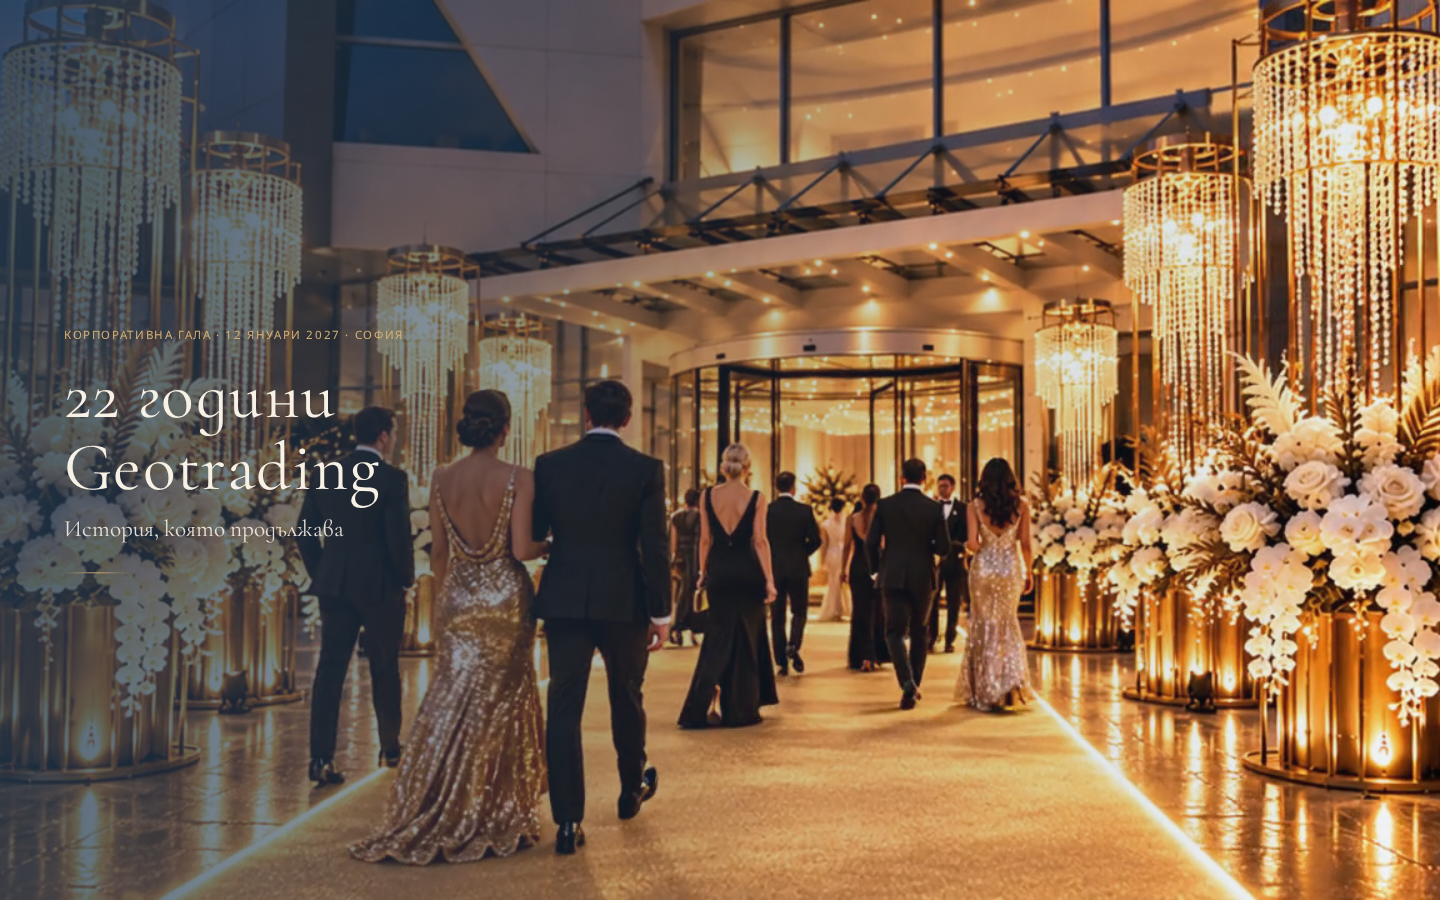
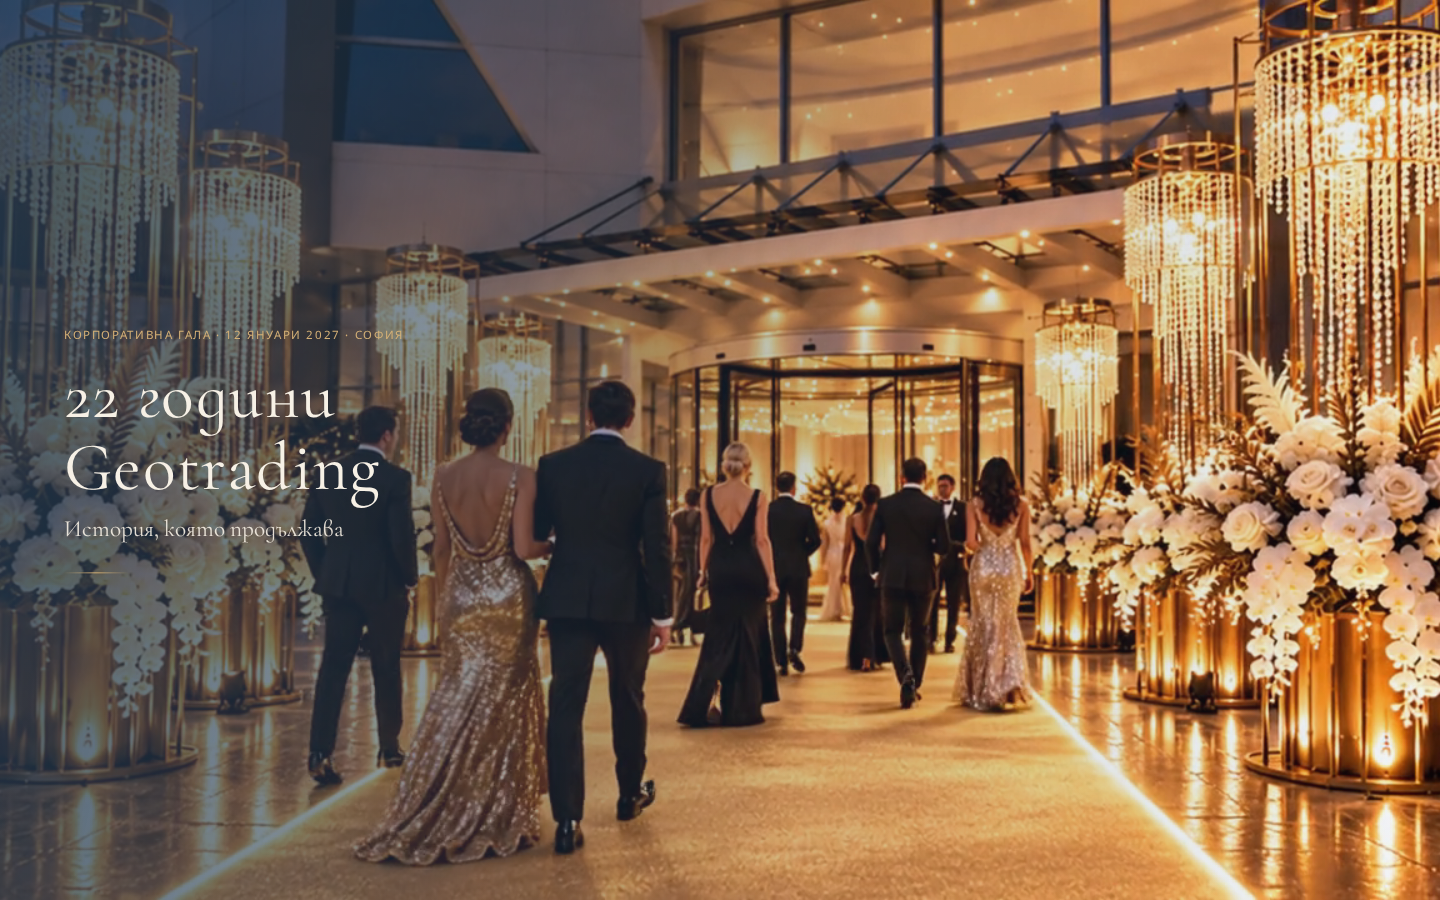
fix(mobile): single scroll-driven caption for cocktail sticky scene
On viewports under 900px, hide the desktop beat list and show one
intro/beat caption over a full-bleed image with bottom gradient,
crossfade, and optional dots. Reduced motion stacks captions.
Refresh mobile Playwright screenshots.

diff --git a/src/scenes/StickyStoryScene.tsx b/src/scenes/StickyStoryScene.tsx
@@ -3,6 +3,7 @@ import type { StickyStorySceneData } from '@/content/types';
 import { ResponsivePicture } from '@/components/ResponsivePicture';
 import { useScrollProgress } from '@/lib/useScrollProgress';
 import { getPrefersReducedMotion } from '@/lib/reducedMotion';
+import { useIsDesktopStoryLayout } from '@/lib/useMediaQuery';
 import { InvestmentSummary } from '@/components/InvestmentSummary';
 import { PaletteCompare } from '@/components/PaletteCompare';
 
@@ -17,8 +18,29 @@ function beatIndex(progress: number, count: number): number {
   return Math.min(count - 1, Math.floor(progress * count));
 }
 
+function BeatContent({
+  beat,
+  compact,
+}: {
+  beat: StickyStorySceneData['beats'][number];
+  compact?: boolean;
+}) {
+  return (
+    <>
+      {beat.detailBadgeAssetId && (
+        <div className={`beat__badge ${compact ? 'beat__badge--sm' : ''}`}>
+          <ResponsivePicture assetId={beat.detailBadgeAssetId} objectFit="cover" />
+        </div>
+      )}
+      <h3>{beat.titleBg}</h3>
+      <p>{beat.bodyBg}</p>
+    </>
+  );
+}
+
 export function StickyStoryScene({ data, treatment, scrollHint }: Props) {
   const reduced = getPrefersReducedMotion();
+  const isDesktop = useIsDesktopStoryLayout();
   const { trackRef, progress } = useScrollProgress(!reduced);
   const trackH = reduced ? 'auto' : undefined;
 
@@ -41,6 +63,9 @@ export function StickyStoryScene({ data, treatment, scrollHint }: Props) {
         } as React.CSSProperties)
       : undefined;
 
+  const showMobileCaption = !isDesktop;
+  const mobileAnimate = showMobileCaption && !reduced;
+
   return (
     <>
       <section id="scene-cocktail" className="sticky-story" aria-labelledby="cocktail-heading">
@@ -58,7 +83,7 @@ export function StickyStoryScene({ data, treatment, scrollHint }: Props) {
         >
           <div className="sticky-story__stage">
             <div className="sticky-story__layout">
-              <div className="sticky-story__text-col">
+              <div className="sticky-story__text-col sticky-story__text-col--desktop">
                 <h2 id="cocktail-heading" className="section-title section-title--on-dark">
                   {data.titleBg}
                 </h2>
@@ -66,25 +91,16 @@ export function StickyStoryScene({ data, treatment, scrollHint }: Props) {
 
                 <div className="sticky-story__beats" aria-live="polite">
                   {(reduced ? data.beats : activeBeat >= 0 ? data.beats : []).map((beat, i) => (
-                      <article
-                        key={beat.id}
-                        className={`beat ${!reduced && i === activeBeat ? 'beat--active' : ''} ${reduced ? 'beat--static' : ''}`}
-                        style={{ opacity: reduced || activeBeat === i ? 1 : 0.2 }}
-                      >
-                        {beat.detailBadgeAssetId && (
-                          <div className="beat__badge">
-                            <ResponsivePicture assetId={beat.detailBadgeAssetId} objectFit="cover" />
-                          </div>
-                        )}
-                        <h3>{beat.titleBg}</h3>
-                        <p>{beat.bodyBg}</p>
-                      </article>
-                    ),
-                  )}
+                    <article
+                      key={beat.id}
+                      className={`beat ${!reduced && i === activeBeat ? 'beat--active' : ''} ${reduced ? 'beat--static' : ''}`}
+                      style={{ opacity: reduced || activeBeat === i ? 1 : 0.2 }}
+                    >
+                      <BeatContent beat={beat} />
+                    </article>
+                  ))}
                   {!reduced && activeBeat < 0 && (
-                    <p className="beat beat--hint section-lead section-lead--on-dark">
-                      {scrollHint}
-                    </p>
+                    <p className="beat beat--hint section-lead section-lead--on-dark">{scrollHint}</p>
                   )}
                 </div>
               </div>
@@ -96,6 +112,63 @@ export function StickyStoryScene({ data, treatment, scrollHint }: Props) {
                   style={overlayStyle}
                   aria-hidden="true"
                 />
+
+                {showMobileCaption && (
+                  <div
+                    className={`sticky-story__mobile-caption ${mobileAnimate ? 'sticky-story__mobile-caption--animate' : ''}`}
+                    aria-live="polite"
+                  >
+                    {reduced ? (
+                      <div className="sticky-story__mobile-caption-stack">
+                        <h2 className="section-title section-title--on-dark section-title--caption">
+                          {data.titleBg}
+                        </h2>
+                        <p className="section-lead section-lead--on-dark">{data.introBg}</p>
+                        {data.beats.map((beat) => (
+                          <article key={beat.id} className="beat beat--static beat--caption">
+                            <BeatContent beat={beat} compact />
+                          </article>
+                        ))}
+                      </div>
+                    ) : (
+                      <>
+                        <div className="mobile-caption__body">
+                          <div
+                            className={`mobile-caption__panel ${activeBeat < 0 ? 'is-active' : ''}`}
+                            aria-hidden={activeBeat >= 0}
+                          >
+                            <h2 className="section-title section-title--on-dark section-title--caption">
+                              {data.titleBg}
+                            </h2>
+                            <p className="section-lead section-lead--on-dark mobile-caption__intro">
+                              {data.introBg}
+                            </p>
+                            {activeBeat < 0 && <p className="mobile-caption__hint">{scrollHint}</p>}
+                          </div>
+                          {data.beats.map((beat, i) => (
+                            <div
+                              key={beat.id}
+                              className={`mobile-caption__panel mobile-caption__panel--beat ${activeBeat === i ? 'is-active' : ''}`}
+                              aria-hidden={activeBeat !== i}
+                            >
+                              <article className="beat beat--caption">
+                                <BeatContent beat={beat} compact />
+                              </article>
+                            </div>
+                          ))}
+                        </div>
+                        <div className="sticky-story__dots" aria-hidden="true">
+                          {data.beats.map((beat, i) => (
+                            <span
+                              key={beat.id}
+                              className={`sticky-story__dot ${activeBeat === i ? 'is-active' : ''} ${activeBeat < 0 && i === 0 ? 'is-next' : ''}`}
+                            />
+                          ))}
+                        </div>
+                      </>
+                    )}
+                  </div>
+                )}
               </div>
             </div>
           </div>

diff --git a/src/styles/scenes.css b/src/styles/scenes.css
@@ -183,6 +183,31 @@
   z-index: 2;
 }
 
+@media (max-width: 899px) {
+  .sticky-story__text-col--desktop {
+    display: none;
+  }
+
+  .sticky-story__layout {
+    display: block;
+    height: 100%;
+    position: relative;
+  }
+
+  .sticky-story__visual {
+    position: absolute;
+    inset: 0;
+    min-height: 0;
+    height: 100%;
+    max-height: 100dvh;
+    max-height: 100svh;
+  }
+
+  .sticky-story__visual img {
+    object-fit: contain !important;
+  }
+}
+
 .sticky-story__visual {
   position: relative;
   min-height: 42svh;
@@ -192,6 +217,130 @@
 @media (min-width: 900px) {
   .sticky-story__visual {
     min-height: 0;
+  }
+
+  .sticky-story__mobile-caption {
+    display: none !important;
+  }
+}
+
+/* Mobile: single scroll-driven caption over image */
+.sticky-story__mobile-caption {
+  position: absolute;
+  left: 0;
+  right: 0;
+  bottom: 0;
+  z-index: 4;
+  padding: 0 1rem calc(1rem + env(safe-area-inset-bottom, 0px));
+  pointer-events: none;
+  background: linear-gradient(
+    180deg,
+    transparent 0%,
+    rgba(37, 59, 80, 0.55) 28%,
+    rgba(37, 59, 80, 0.92) 100%
+  );
+}
+
+.sticky-story__mobile-caption-stack {
+  max-height: min(38svh, 320px);
+  overflow-y: auto;
+  pointer-events: auto;
+}
+
+.mobile-caption__body {
+  position: relative;
+  min-height: 6.75rem;
+}
+
+.mobile-caption__panel {
+  position: absolute;
+  left: 0;
+  right: 0;
+  top: 0;
+  opacity: 0;
+  transform: translateY(10px);
+  visibility: hidden;
+  transition: none;
+}
+
+.sticky-story__mobile-caption--animate .mobile-caption__panel {
+  transition:
+    opacity 0.55s ease,
+    transform 0.55s ease,
+    visibility 0.55s;
+}
+
+.mobile-caption__panel.is-active {
+  opacity: 1;
+  transform: translateY(0);
+  visibility: visible;
+  position: relative;
+}
+
+.section-title--caption {
+  font-size: clamp(1.35rem, 4.5vw, 1.65rem);
+  margin-bottom: 0.35rem;
+}
+
+.mobile-caption__intro {
+  font-size: 0.92rem;
+  margin-bottom: 0.25rem;
+  line-height: 1.45;
+}
+
+.mobile-caption__hint {
+  font-size: 0.78rem;
+  color: rgba(247, 241, 230, 0.65);
+  margin: 0.35rem 0 0;
+}
+
+.beat--caption {
+  margin-top: 0;
+  padding-left: 0.65rem;
+  border-left-width: 2px;
+}
+
+.beat--caption h3 {
+  font-size: 1.05rem;
+}
+
+.beat--caption p {
+  font-size: 0.88rem;
+  margin-bottom: 0;
+}
+
+.beat__badge--sm {
+  width: 48px;
+  height: 48px;
+}
+
+.sticky-story__dots {
+  display: flex;
+  justify-content: center;
+  gap: 0.45rem;
+  margin-top: 0.65rem;
+  padding-bottom: 0.15rem;
+}
+
+.sticky-story__dot {
+  width: 6px;
+  height: 6px;
+  border-radius: 50%;
+  background: rgba(247, 241, 230, 0.28);
+}
+
+.sticky-story__dot.is-active {
+  background: var(--color-champagne);
+  transform: scale(1.15);
+}
+
+.sticky-story__dot.is-next {
+  background: rgba(212, 176, 118, 0.45);
+}
+
+@media (prefers-reduced-motion: reduce) {
+  .sticky-story__mobile-caption--animate .mobile-caption__panel {
+    transition: none;
   }
 }
 

diff --git a/src/lib/useMediaQuery.ts b/src/lib/useMediaQuery.ts
@@ -1,0 +1,23 @@
+import { useEffect, useState } from 'react';
+
+export function useMediaQuery(query: string): boolean {
+  const [matches, setMatches] = useState(() => {
+    if (typeof window === 'undefined') return false;
+    return window.matchMedia(query).matches;
+  });
+
+  useEffect(() => {
+    const mq = window.matchMedia(query);
+    const onChange = () => setMatches(mq.matches);
+    mq.addEventListener('change', onChange);
+    setMatches(mq.matches);
+    return () => mq.removeEventListener('change', onChange);
+  }, [query]);
+
+  return matches;
+}
+
+/** Matches cocktail desktop split layout breakpoint. */
+export function useIsDesktopStoryLayout(): boolean {
+  return useMediaQuery('(min-width: 900px)');
+}

diff --git a/README.md b/README.md
@@ -58,7 +58,7 @@ Vite `base` comes from `VITE_BASE` (default `/` for `npm run dev`). Runtime medi
 |--------|-----------|
 | **Hero + Grand Entrance** | Sticky `100svh` stage; **entrance poster/video visible at scroll 0** (left scrim, not empty black); navy **#253B50–#33506B** (no near-black fills); video plays once on IO, dissolves to p5 still; ivory copy block **without prices**. |
 | **Photo experience** | Letterboxed band; car video **trimmed to ~3.2s**, play-once, crossfade to p7 light strip; optional orange/plum thumbs. |
-| **Cocktail sticky story** | Track **280svh** desktop / **260svh** mobile; `position: sticky` stage; ScrollTrigger drives beat index; **spotlight** (radial vignette) or **editorial** (soft band + ring) via `?cocktail=`. Beats are **copy only** (no prices). All cocktail prices appear **only** in «Инвестиция» (+ expandable detail) after the pin, then palette compare. |
+| **Cocktail sticky story** | Track **280svh** desktop / **260svh** mobile; `position: sticky` stage; ScrollTrigger drives beat index; **spotlight** (radial vignette) or **editorial** (soft band + ring) via `?cocktail=`. **Desktop:** text column + faded inactive beats. **Mobile (&lt;900px):** full-bleed image with a single bottom caption (intro → one beat at a time, crossfade) + subtle dots. Beats are **copy only** (no prices). Prices only in «Инвестиция» after the pin. |
 | **Golden passage** | **Placeholder** (dev badge): push-in on p15 strip + p14 palette beat + veil → p21 (optional p22 ghost). Not a real corridor scrub until footage exists. |
 | **ScrubSequence (dev)** | `?scrubTest=1` — canvas sequence from entrance clip frames (12 fps); validates loader/lerp/cache for future corridor video. |
 
